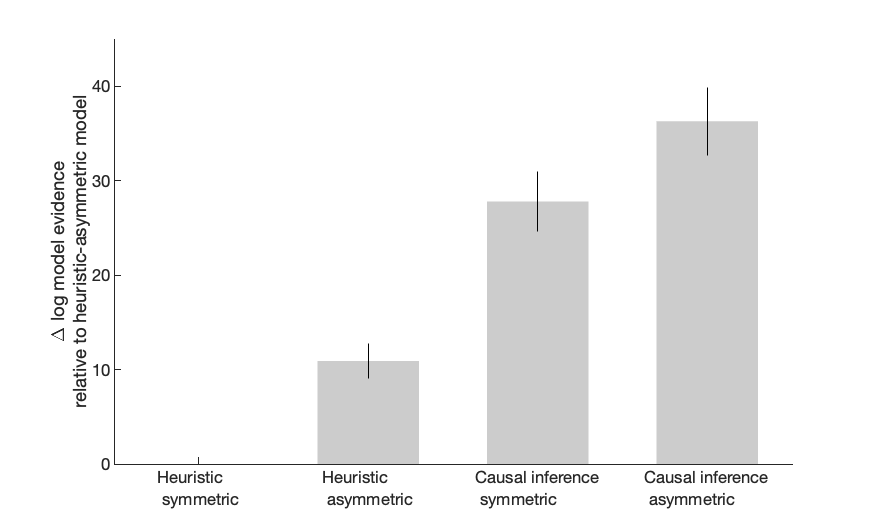
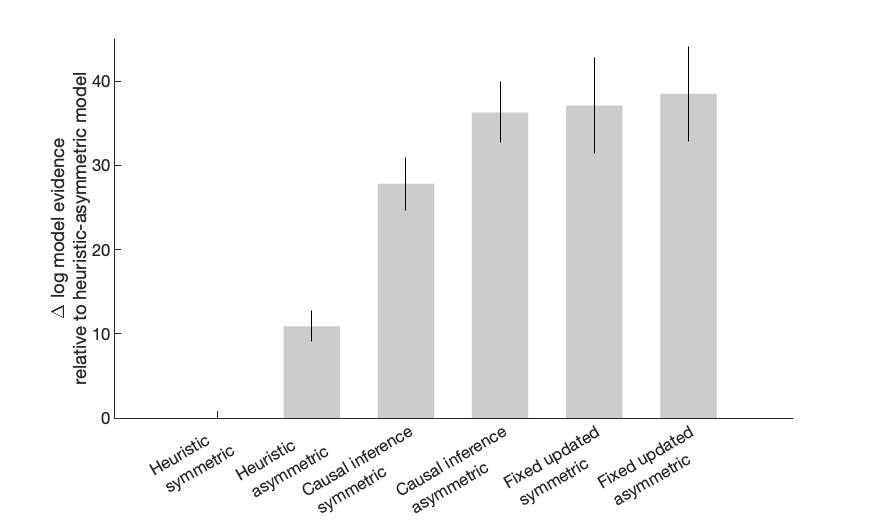
format param recovery results

Changed region(s): [[0.1543, 0.1536, 0.8949, 0.9827], [0.0617, 0.1228, 0.1234, 0.7678], [0.1234, 0.7985, 0.1543, 0.8292]]

diff --git a/figures/figS7.m b/figures/figS7.m
@@ -1,3 +1,6 @@
+% fig S7: parameter recovery of causal-inference model with asymmetrical
+% likelihood
+
 clear; close all;
 
 %% manage path
@@ -26,11 +29,20 @@ end
 % info
 model_str = r.model.currModelStr;
 paraID = r.model.initVal.paraID;
+paraID{4} = 'criterion';
 num_para = numel(paraID);
 lb = r.model.initVal.lb;
 ub = r.model.initVal.ub;
 
-%% %%%%%%%%%%%%%%%%%%%%% plot %%%%%%%%%%%%%%%%%%%%%
+%% %%%%%%%%%%%%%%%%%%%%%%%% plot %%%%%%%%%%%%%%%%%%%%%%%%%%%%
+
+lw = 0.5;
+fontSZ = 7;
+titleSZ = 9;
+dotSZ = 10;
+
+figure;
+set(gcf, 'Position', [0, 0, 420, 300]);
 
 nPlot = num_para;
 nRow  = ceil(sqrt(nPlot));
@@ -40,10 +52,13 @@ if nPlot <= (nRow*nCol)-nCol, nRow = nRow-1; end
 for jj = 1:num_para
 
     subplot(nRow,nCol,jj);
+    set(gca, 'FontSize', fontSZ, 'LineWidth', lw, 'TickDir', 'out')
+    set(gca, 'LineWidth', lw, 'FontSize', fontSZ,'TickDir', 'out')
+    set(gca, 'FontName', 'Helvetica');
     axis square;
     axis equal
     hold on
-    scatter(gt(:,jj), est(:,jj),50,'MarkerEdgeColor','k','MarkerFaceColor','none');
+    scatter(gt(:,jj), est(:,jj),20,'MarkerEdgeColor','k','MarkerFaceColor','none');
     xlim([lb(jj) ub(jj)])
     ylim([lb(jj) ub(jj)])
 
@@ -53,7 +68,7 @@ for jj = 1:num_para
     y_limits = ax.YLim;
     line_min = min([x_limits y_limits]);
     line_max = max([x_limits y_limits]);
-    plot([line_min line_max], [line_min line_max], 'k--', 'LineWidth', 1);
+    plot([line_min line_max], [line_min line_max], 'k--', 'LineWidth', lw);
 
     % Calculate the Pearson correlation coefficient and p-value
     [R, P] = corrcoef(gt(:, jj), est(:, jj));
@@ -63,12 +78,16 @@ for jj = 1:num_para
     p_value = P(1,2);
 
     % Label the r and p in the title
-    title(sprintf('%s: r= %.2f, p=%.3f', paraID{jj}, r, p_value));
+    title(sprintf('%s \n r= %.2f, p=%.3f', paraID{jj}, r, p_value),'FontSize',fontSZ,'FontWeight','normal');
 
     if jj == 4
-        ylabel('Prediction')
+        ylabel('Prediction','FontSize',titleSZ,'FontWeight','bold')
     elseif jj == 8
-        xlabel('Ground-truth')
+        xlabel('Ground-truth','FontSize',titleSZ,'FontWeight','bold')
     end
 
 end
+
+% Save figure
+flnm = 'param_recovery';
+saveas(gcf, fullfile(out_dir, flnm), 'pdf');

diff --git a/figures/fig2.m b/figures/fig2.m
@@ -133,12 +133,12 @@ xticklabels(x_ticks./1000);
 yticks(y_ticks);
 xtickangle(60);
 yticklabels(y_ticks);
-xlabel('Test SOA (s)', 'FontName', 'Helvetica', 'FontWeight', 'Light');
-ylabel('Probability', 'FontName', 'Helvetica', 'FontWeight', 'Light');
+xlabel('Test SOA (s)', 'FontName', 'Helvetica');
+ylabel('Probability', 'FontName', 'Helvetica');
 
 %% B. Group behavior
 subplot(1, 2, 2);
-set(gca, 'Position', [0.65, 0.2, 0.3, 0.8], 'LineWidth', lw, 'FontSize', fontSZ, 'TickDir', 'out', 'FontName', 'Helvetica', 'FontWeight', 'Light');
+set(gca, 'Position', [0.65, 0.2, 0.3, 0.8], 'LineWidth', lw, 'FontSize', fontSZ, 'TickDir', 'out', 'FontName', 'Helvetica');
 hold on;
 
 % Group
@@ -154,12 +154,12 @@ ylim([-yl, yl]);
 yticks([-yl, 0, yl]);
 yticklabels([-yl, 0, yl] ./ 1e3);
 yline(0, '--', 'LineWidth', lw);
-ylabel('Recalibration effect (s)', 'FontName', 'Helvetica', 'FontWeight', 'Light');
+ylabel('Recalibration effect (s)', 'FontName', 'Helvetica')
 xticks(adaptor_soa);
 xticklabels(adaptor_soa / 1e3);
 xtickangle(60);
 xlim([min(adaptor_soa) - 50, max(adaptor_soa) + 50]);
-xlabel('Adaptor SOA (s)', 'FontName', 'Helvetica', 'FontWeight', 'Light');
+xlabel('Adaptor SOA (s)', 'FontName', 'Helvetica');
 set(gca, 'TickDir', 'out');
 
 % Save figure

diff --git a/recalibration_models_VBMC/plot_confusion_matrix.m b/recalibration_models_VBMC/plot_confusion_matrix.m
@@ -95,7 +95,7 @@ flnm = 'ModelEvidence_recal_models';
 saveas(gca, fullfile(out_dir, flnm),'png')
 
 %% 3. plot group log bayes factor
-order = [2, 1, 4, 3];
+order = [2, 1, 4, 3, 6, 5];
 delta = log_model_evi(order, :) - log_model_evi(2, :);
 m_delta = mean(delta, 2);
 se_delta = std(delta, [], 2) ./ numel(sub_slc);
@@ -108,7 +108,6 @@ bar_handle = bar(m_delta, 'FaceColor', [0.8, 0.8, 0.8], 'EdgeColor', 'none','Bar
 errorbar(m_delta, se_delta, 'k', 'LineStyle', 'none', 'CapSize', 0);
 yticks([0:10:40])
 ylim([0, 45])
-xlim([0.5, 4.5])
 
 xticks(1:length(m_delta));
 labels = specifications(order);

diff --git a/figures/fig3.m b/figures/fig3.m
@@ -97,8 +97,7 @@ for mm = 1:2
     set(gca, 'FontSize', fontSZ, 'LineWidth', lw, 'TickDir', 'out')
     %     axis equal
     set(gca, 'LineWidth', lw, 'FontSize', fontSZ,'TickDir', 'out')
-    set(gca, 'FontName', 'Helvetica Neue');
-    set(gca, 'FontWeight', 'Light');
+    set(gca, 'FontName', 'Helvetica');
 
     e = errorbar(adaptor_soa, mean_toj_pss, se_toj_pss, ...
         'o','LineWidth', 1.5);
